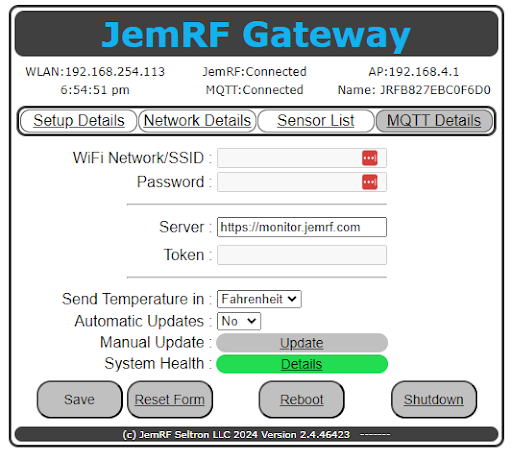
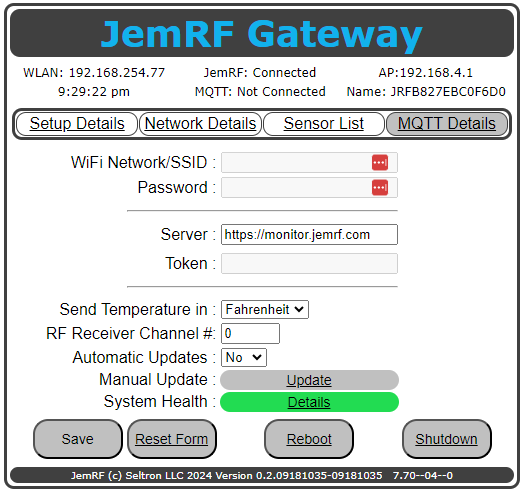
Update Smart Gateway setup docs and show Channel select

diff --git a/pages/sgateway/sgw-setup.md b/pages/sgateway/sgw-setup.md
@@ -8,17 +8,19 @@ summary: JemRF Smart Gateway Setup Tab.
 ---
 
 # Setup Details
-The Setup Details is the home screen and is used to configure the operation features of the Gateway.
+The Setup Details is the home screen and is used to configure the Gateway for connection to the local network, the URL for the monitoring Server, to change reported temperature readings, select the RF receiver channel and  monitor the health of the Gateway.
 
-To connect to the local network, there are two options. Option 1 is to configure the connection to the local WiFi. The second option is using the hardwired Ethernet interface.
+To get the Gateway online and connected to the local network, there are three options. Option 1 is to configure the connection to the local WiFi. The second option is using the hardwired Ethernet interface. The third option is a Cell Modem plugged into the USB-A port on the back of the Gateway.
 
-The remote server uses web services to send measurements, which are normally the JemRF Monitoring Services.
+The <b>Server</b> is the web service that measurements are sent to, which are normally the JemRF Monitoring Services.
 
-Measurements are taken in centigrade. There is the option to send temperature readings in Fahrenheit instead.
+Measurements are taken in centigrade, but there is the option to send temperature readings in Fahrenheit instead.
 
-There is an option for automatic updates.
+The RF Receiver Channel # is to support multiple gateways and have sensors only report to the gateway that is on the same channel. Using different channels, {there are 10 channels available) can reduce data collisions if there are lots of sensors in a common area.
 
-System Health details: Green indicates the system is working. The Details button shows more details on the System Health.
+Firmware updates can be automatic, semi-automatic and manual. If the Automatic Update is then the Manual Update option appears. The Update button will bring up Figure 2.
+
+System Health details: Green indicates the system is working. The Details button shows more details on the System Health shown in Figure 3.
 
 
 <img src="images/sgw-setup.png" width="425"/>
@@ -70,4 +72,4 @@ Changes in status include:
 - No data being processed for 5 minutes
 - Connection to the HTTP or MQTT server is lost
 
-
+[Contine to Network Setup ](sgw-network.html)

diff --git a/pages/wifidocs/wifi-iot-updates.md b/pages/wifidocs/wifi-iot-updates.md
@@ -63,6 +63,10 @@ Release 3.3.09 once installed, Eliminates the need for Future Manual Downloads
 A Reset after install is required.
 
 ## Release Notes
+### Version 3.4.8 (9/03/2024)  (Current Release)
+  - Add Hide passwords with option to show
+  - Fix sending GPIO changes out MQTT when not connected to Monitoring Server
+
 ### Version 3.4.6 (5/17/2024)  (Current Release)
   - Fix JSON MQTT format
   - Added sending diagnostic information to server to for tech support
